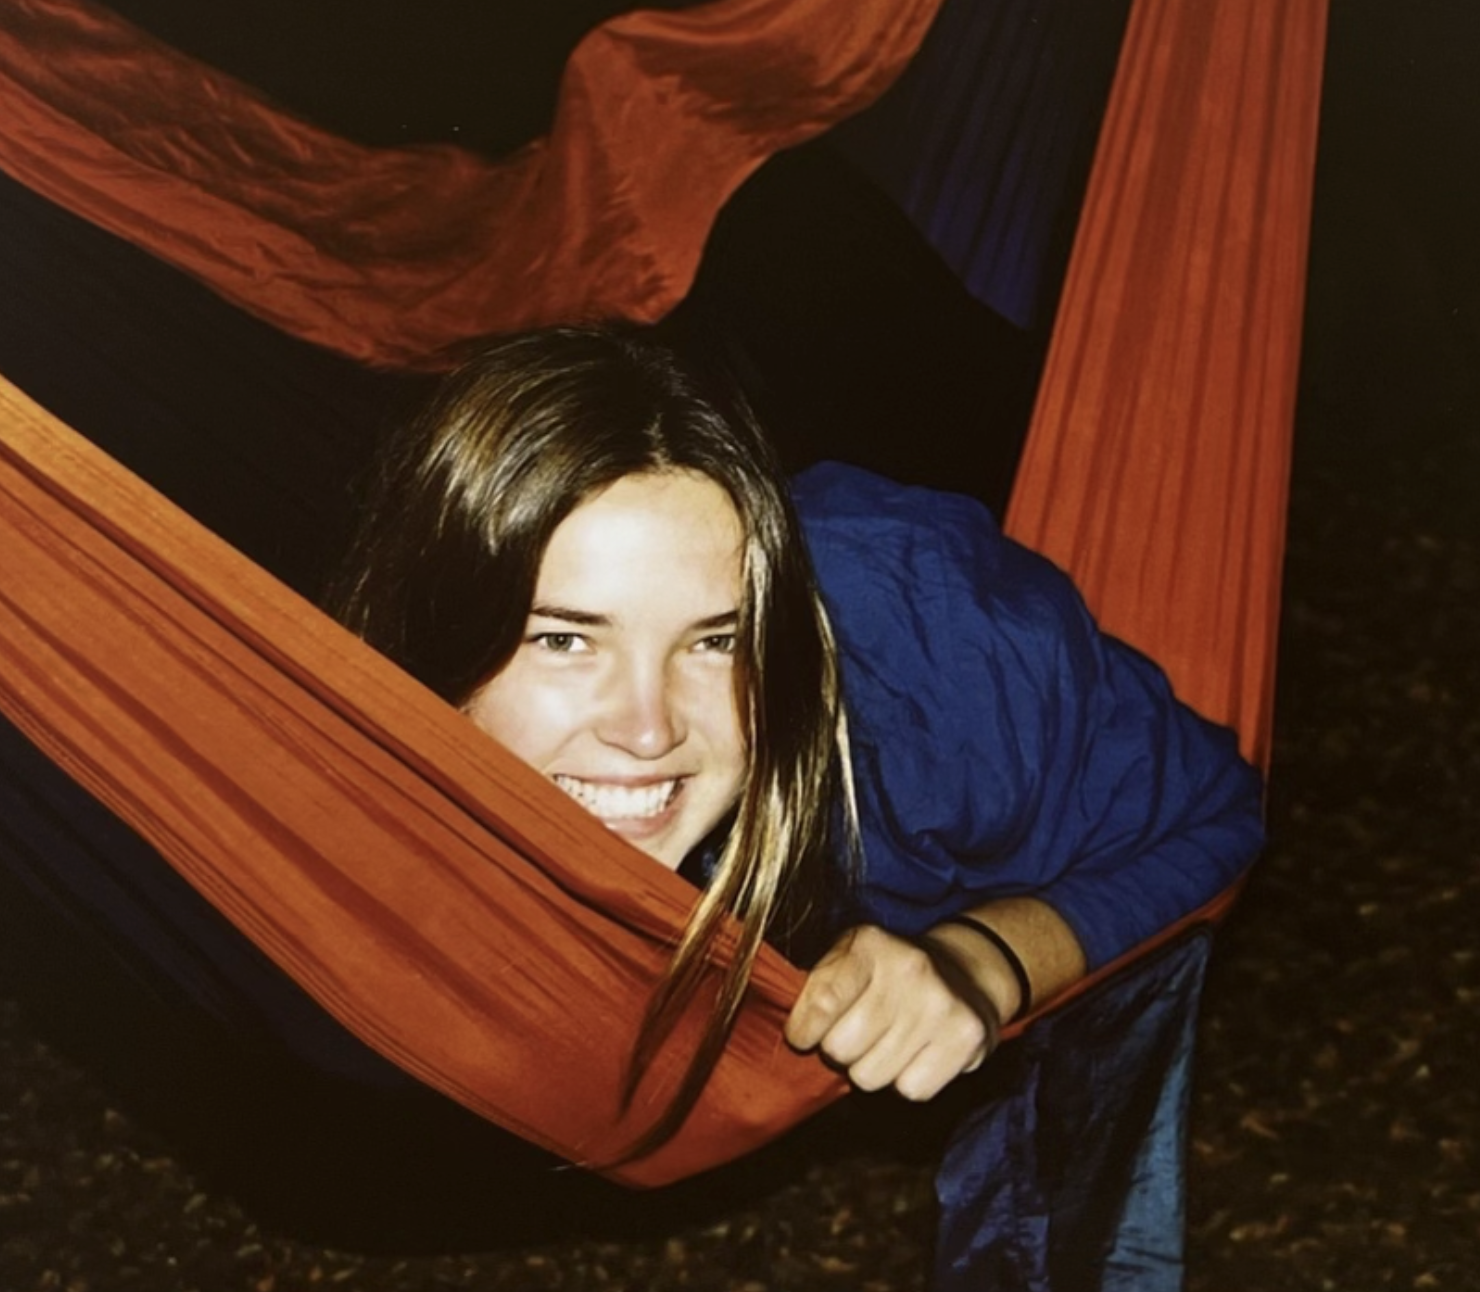
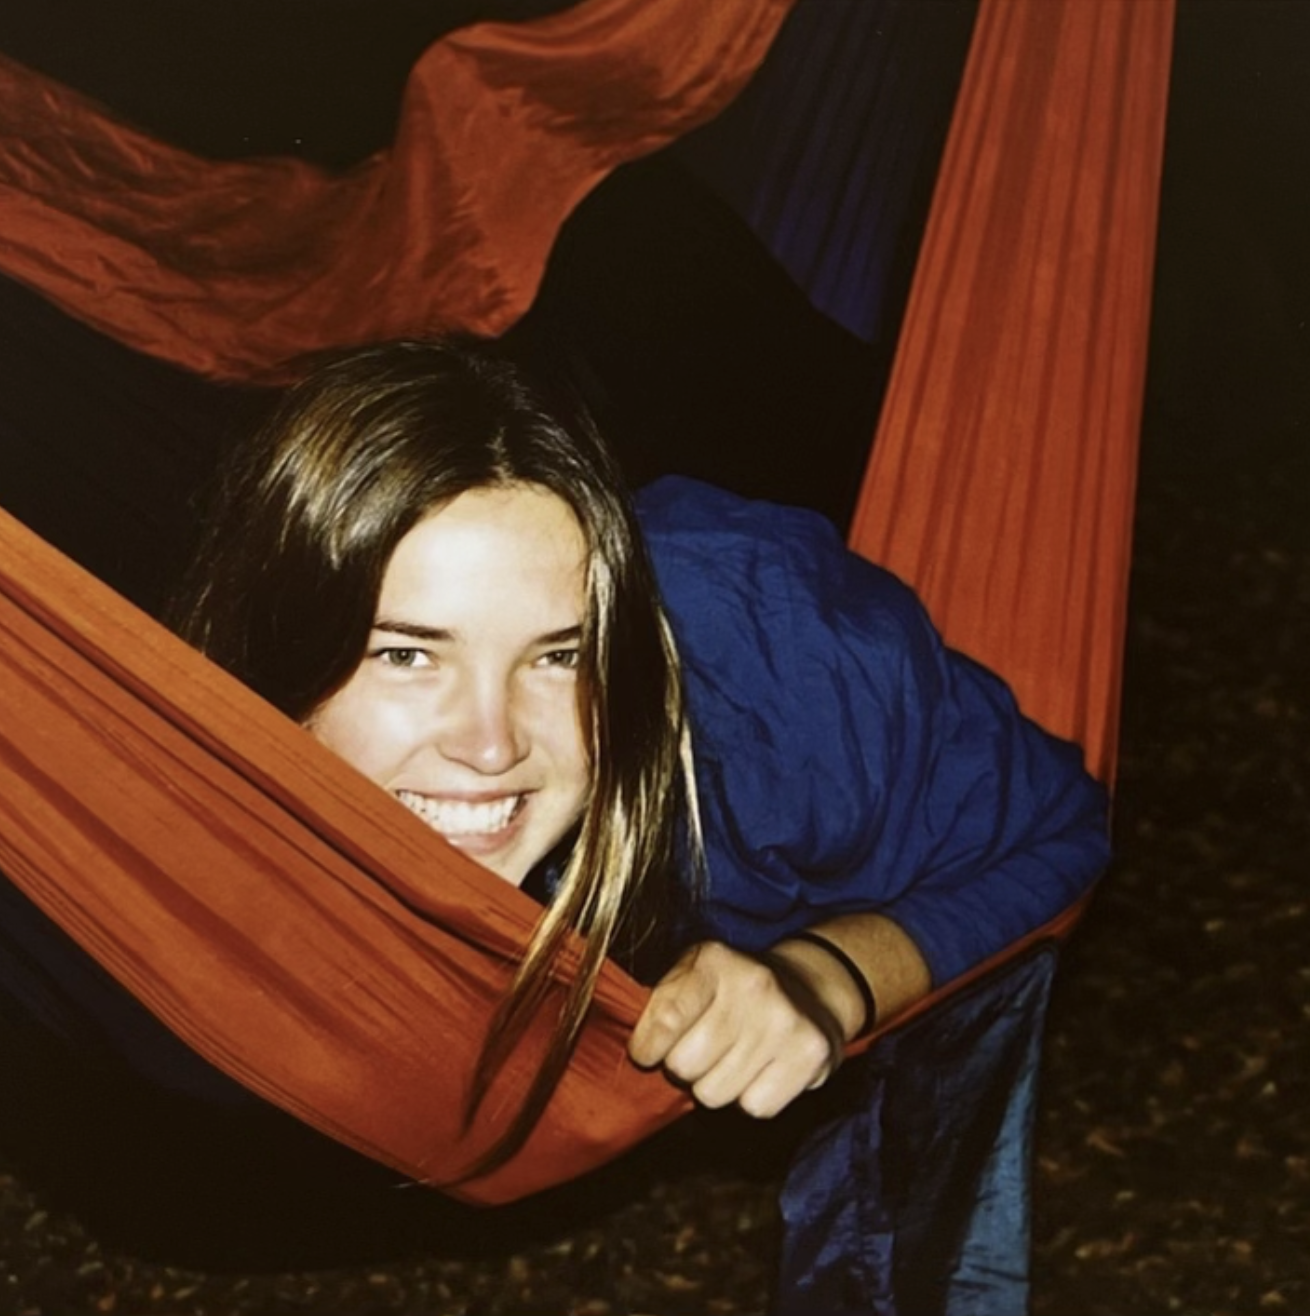
bigger photo

diff --git a/index.md b/index.md
@@ -17,7 +17,7 @@ Kira Toal is a computer science and applied math double major. She enjoys going 
 
 ## Meet Brittany
 
-<img style="float: right;" src="brittany_pic.png" position="right" width="300" height="850">
+<img style="float: right;" src="brittany_pic.png" position="right" width="300" height="900">
 
 Brittany Steenbergen is currently a junior computer science major and a member of the LMU novice rowing team. In her free time she enjoys painting, hiking, and backpacking.
 
